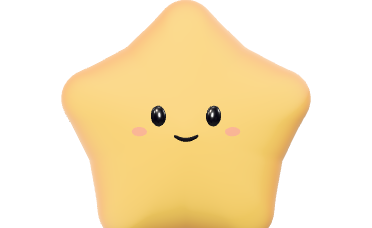
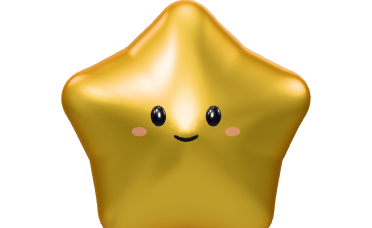
Give the star coach a metal skin

diff --git a/src/content/coach/mascot/cast/star.ts b/src/content/coach/mascot/cast/star.ts
@@ -15,7 +15,7 @@ const SHAPE: StarShape = {
 
 export const star: Character = {
   name: 'Étoile',
-  skin: 'velvet',
+  skin: 'metal',
   colors: { coat: '#ffb62e', front: '#ffd65c', accent: '#ff9b5e' },
   frontMask: [0.7, 0.7],
   stripes: [0, 0, 0],
